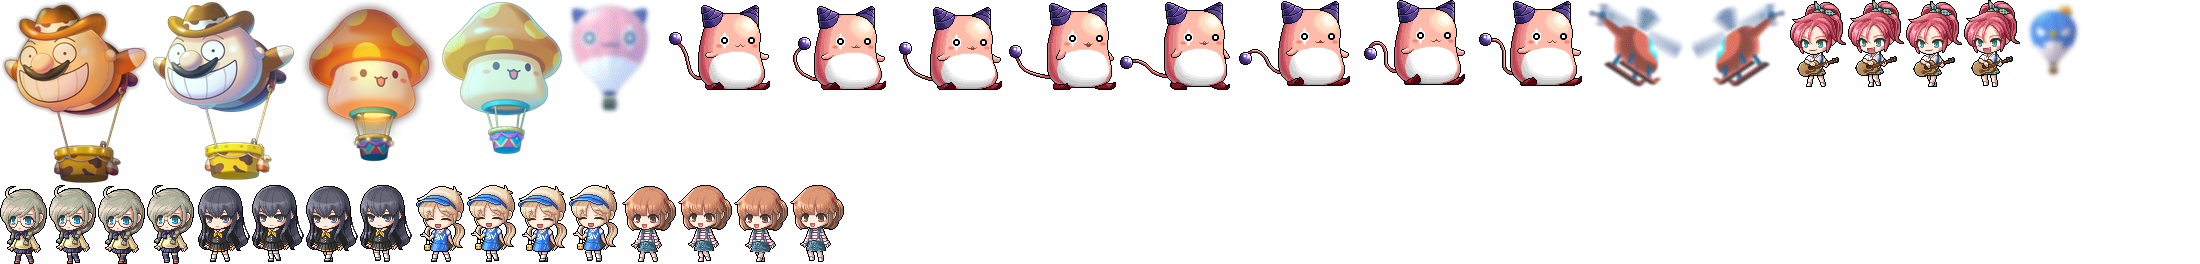
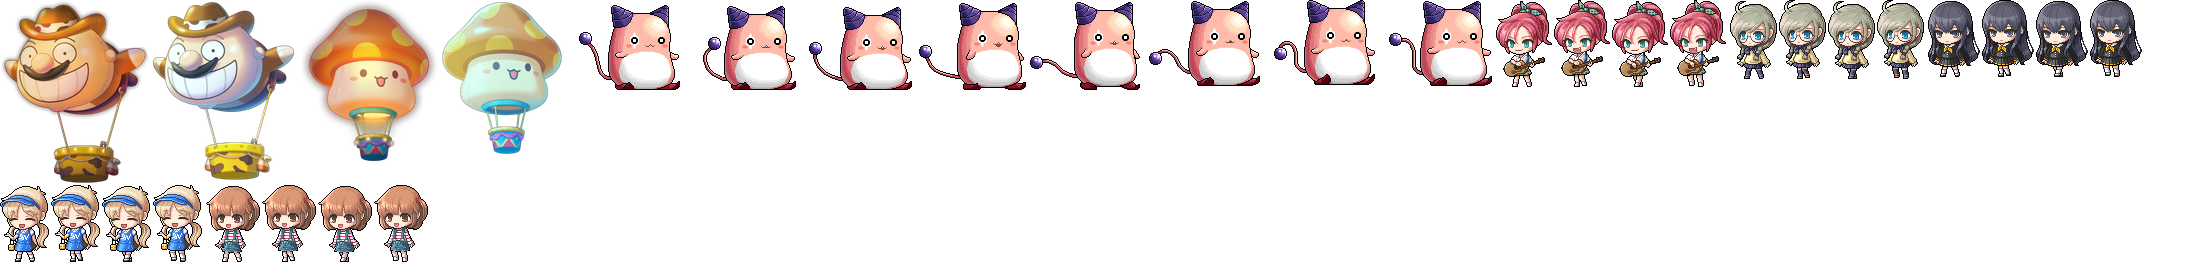
feat(scene): 장면은 확대 없이 페이드로, 뒤쪽 그림은 손실 압축, 폴백 배경 한 장
- 장면이 뜰 때 다가가는 효과를 없애고 0.7초 페이드만(앱 배경·피팅룸)
- 구름·핑크빈/페페 열기구·헬리콥터를 street-back(품질 90)으로. 걷는 이·이벤트 열기구는 무손실 그대로
- WebGL 을 못 쓸 때 assets/background/street-still.webp 한 장을 얹는다(조각 배치 코드 제거)

diff --git a/src/components/shop/scene/sceneGl.ts b/src/components/shop/scene/sceneGl.ts
@@ -200,7 +200,6 @@ interface Scene {
   px: number                     // 무대: 그림 1칸의 캔버스 픽셀 수(= 캐릭터 도트 1칸)
   nearest: boolean               // 무대: 지금 텍스처 필터
   shadow: number                 // 무대: 발밑 그림자 반폭(그림 픽셀)
-  arrive: number                 // 0 → 1: 처음 뜨면서 살짝 다가간다
   since: number                  // 화면에 붙은 때(그림을 얼마나 기다렸는지 잰다)
   loading: boolean               // 그림을 받기 시작했다
   els: (HTMLImageElement | undefined)[]   // 화면에 깔린 <img>(텍스처의 원본)
@@ -321,14 +320,16 @@ function mesh(kind: SceneKind) {
     for (const [cx, cy] of [[0, 0], [1, 0], [0, 1], [1, 0], [1, 1], [0, 1]]) out.push(x + cx * w, y + cy * h, cx ? u1 : u0, cy ? v1 : v0, k, ph, z, extra)
   }
   if (kind === 'sky') {
-    const [aw, ah] = STREET.atlas, [cw, ch] = STREET.cloud
+    const [fw, fh] = STREET.atlas, [bw, bh] = STREET.back
     // sprites: [종류, 아틀라스 x, y, w, h, 장면 x, y, 빠르기 배수 | 걷는 그림 장수, 박자 | 장 사이 간격]
     // 구름은 제자리에서 흘러가고, 나머지는 지나가는 것들이다. 같은 그림이 여러 번 놓여 있으면 하나만 쓴다(하늘이 붐비지 않게).
     const defs: typeof moverDefs = [], byArt = new Map<string, number>(), byBeat = new Map<number, number>()
     let helis = 0
     STREET.sprites.forEach(([k, ax, ay, w, h, x, y, extra, b], i) => {
-      if (k === 0) { quad(0, (i * 0.618034) % 1, x, y, w, h, ax / cw, ay / ch, (ax + w) / cw, (ay + h) / ch, 0); return }   // 구름은 제 그림(street-cloud)에 있다
+      // 구름 · 핑크빈/페페 열기구 · 헬리콥터는 뒤쪽 그림(street-back)에, 나머지는 street-air 에 있다
+      const [aw, ah] = k === 0 || k === 2 || (k === 1 && b < 0) ? [bw, bh] : [fw, fh]
       const uv = [ax / aw, ay / ah, (ax + w) / aw, (ay + h) / ah] as const
+      if (k === 0) { quad(0, (i * 0.618034) % 1, x, y, w, h, ...uv, 0); return }
       if (k === 11) { const idx = byBeat.get(b); if (idx != null) quad(11, idx, -w / 2, y, w, h, ...uv, 0, extra < 0 ? -1 : 1); return }
       const art = `${ax},${ay}`
       if (byArt.has(art) || defs.length >= MAX_MOVERS) return
@@ -428,7 +429,7 @@ function load(sc: Scene) {
 function create(kind: SceneKind): Scene {
   const canvas = document.createElement('canvas')
   canvas.style.cssText = 'position:absolute;left:0;top:0;width:100%;height:100%;display:block;opacity:0;pointer-events:none'
-  const sc: Scene = { kind, canvas, gl: null, quad: null, sky: null, ranges: [], bmps: SOURCES[kind].map(() => null), tex: [], pending: [], host: null, ratio: 1, foot: [0, 0], px: 1, nearest: false, shadow: 13, arrive: 0, since: 0, loading: false, els: [], frozen: false, mask: MASK, movers: null, mov: new Float32Array(MAX_MOVERS * 4), shown: false, dirty: true, at: 0, failed: false, cleanup: null }
+  const sc: Scene = { kind, canvas, gl: null, quad: null, sky: null, ranges: [], bmps: SOURCES[kind].map(() => null), tex: [], pending: [], host: null, ratio: 1, foot: [0, 0], px: 1, nearest: false, shadow: 13, since: 0, loading: false, els: [], frozen: false, mask: MASK, movers: null, mov: new Float32Array(MAX_MOVERS * 4), shown: false, dirty: true, at: 0, failed: false, cleanup: null }
   // 소프트웨어 렌더러(GPU 없음)면 쓰지 않는다. 그때는 바탕색만 남는다. (?skygl=soft 는 GPU 없는 확인 환경에서 강제로 켜는 용도)
   const soft = /[?&]skygl=soft/.test(window.location.search)
   const gl = canvas.getContext('webgl', { alpha: false, antialias: false, depth: false, stencil: false, powerPreference: 'low-power', failIfMajorPerformanceCaveat: !soft })
@@ -482,11 +483,9 @@ function draw(sc: Scene, now: number, st: SkyState, still: boolean) {
   // 네트워크가 느린 곳에서 몇 장을 기다리느라 화면이 내내 바탕색으로 남지 않게. 무대는 바탕(매장 색)이 있어 다 올 때까지 기다린다.
   if (sc.tex.length < SOURCES[sc.kind].length || sc.tex.some((t) => !t)) { if (room || now - sc.since < PATIENCE) return }
   const s = still ? 40 : now / 1000, W = c.width, H = c.height
-  sc.arrive = still ? 1 : Math.min(1, sc.arrive + 0.035)
-  const ease = 1 - Math.pow(1 - sc.arrive, 3), zoom = 1 + 0.03 * (1 - ease)
   if (room) {
-    // 다가가는 동안만 부드럽게, 멈추면 칸을 그대로(캐릭터 도트와 같은 결)
-    const nearest = sc.arrive >= 1 && Number.isInteger(sc.px)
+    // 칸을 그대로 그린다(캐릭터 도트와 같은 결)
+    const nearest = Number.isInteger(sc.px)
     if (nearest !== sc.nearest) {
       sc.nearest = nearest
       const f = nearest ? gl.NEAREST : gl.LINEAR
@@ -518,9 +517,9 @@ function draw(sc: Scene, now: number, st: SkyState, still: boolean) {
   gl.vertexAttribPointer(0, 2, gl.FLOAT, false, STRIDE * 4, 0); gl.vertexAttribPointer(1, 2, gl.FLOAT, false, STRIDE * 4, 8); gl.vertexAttribPointer(2, 4, gl.FLOAT, false, STRIDE * 4, 16)
   // 그림 픽셀 → 캔버스 픽셀: c = p * k + o
   let k: number, ox: number, oy: number
-  if (room) { k = sc.px * zoom; ox = sc.foot[0] - ROOM.foot[0] * k; oy = sc.foot[1] - ROOM.foot[1] * k }
-  else { k = sc.ratio * Math.max(1, W / sc.ratio / (STREET.w - 4 * SWAY)) * zoom; ox = W / 2 - (STREET.w / 2) * k; oy = H - STREET.h * k }
-  if (zoom === 1) { ox = Math.round(ox); oy = Math.round(oy) } // 칸이 화면 픽셀에 딱 맞게
+  if (room) { k = sc.px; ox = sc.foot[0] - ROOM.foot[0] * k; oy = sc.foot[1] - ROOM.foot[1] * k }
+  else { k = sc.ratio * Math.max(1, W / sc.ratio / (STREET.w - 4 * SWAY)); ox = W / 2 - (STREET.w / 2) * k; oy = H - STREET.h * k }
+  ox = Math.round(ox); oy = Math.round(oy) // 칸이 화면 픽셀에 딱 맞게
   gl.uniform4f(q.u.uView, k, k, ox, oy); gl.uniform2f(q.u.uRes, W, H); gl.uniform1f(q.u.uTime, s); gl.uniform1f(q.u.uTw, s % 600)
   gl.uniform1f(q.u.uSway, still ? 0 : Math.sin(s * 0.09) * SWAY)
   if (!room) {
@@ -546,10 +545,10 @@ function draw(sc: Scene, now: number, st: SkyState, still: boolean) {
     for (const kd of kinds) { const r = sc.ranges[kd]; if (r) gl.drawArrays(gl.TRIANGLES, r[0], r[1]) }
   }
   if (room) { part(0, [6]); part(1, [7]) }
-  else { part(5, [0]); part(0, [1, 2]); part(1, [4]); part(4, [10]); part(0, [3, 11]); part(2, [5]); part(3, [8]); part(0, [9]) }
+  else { part(5, [0, 1, 2]); part(1, [4]); part(4, [10]); part(0, [3, 11]); part(2, [5]); part(3, [8]); part(0, [9]) }
   sc.dirty = false
   sc.at = now
-  if (!sc.shown) { sc.shown = true; c.style.transition = 'opacity .45s ease'; c.style.opacity = '1' }
+  if (!sc.shown) { sc.shown = true; c.style.transition = 'opacity .7s ease'; c.style.opacity = '1' }   // 깔려 있던 그림 위로 번지듯 나타난다(크기는 그대로 — 다가가는 효과는 그림과 어긋나 보였다)
 }
 
 // 헤더에서 시간대를 바꾸면 곧바로 다시 그린다(동작 줄이기에서는 20초마다만 그리므로)
@@ -601,9 +600,9 @@ export function mountScene(kind: SceneKind, host: HTMLElement): () => void {
   sc.host = host
   load(sc)
   if (!sc.shown) sc.since = performance.now()
-  // 처음 뜰 때만 어두운 바탕에서 밝아지며 살짝 다가간다. 이미 떠 있던 장면은 다시 붙자마자 그린다(아래)
+  // 처음 뜰 때만 서서히 나타난다. 이미 떠 있던 장면은 다시 붙자마자 그린다(아래)
   const again = sc.shown
-  if (!again) { sc.canvas.style.transition = 'none'; sc.canvas.style.opacity = '0'; sc.arrive = 0 }
+  if (!again) { sc.canvas.style.transition = 'none'; sc.canvas.style.opacity = '0' }
   host.appendChild(sc.canvas)
   const relayout = () => layout(sc)
   const ro = new ResizeObserver(relayout)

diff --git a/src/components/shop/scene/SceneCanvas.tsx b/src/components/shop/scene/SceneCanvas.tsx
@@ -4,36 +4,24 @@
 //   ① 지금 시각의 바탕색(하늘빛) ② 움직이지 않는 그림(<img>, next/image) ③ WebGL 장면(scene/sceneGl)
 // ②까지는 WebGL 없이 뜨고 **늘 깔려 있다** — GPU 가 없거나 장면을 못 띄워도, 띄웠다가 잃어도 배경이 보인다(사용자 지시).
 // ③은 화면이 한가해지면 따로 받아 그 위에 띄운다(첫 화면 로딩과 조작을 막지 않는다). ③은 ②의 <img> 를 텍스처로 쓴다(한 번만 받는다).
-// WebGL 을 아예 못 쓰는 기기에서는 지나가는 것들(구름 · 열기구 · 헬리콥터 · 걷는 이)도 ②에 움직이지 않는 그림으로 놓는다.
+// WebGL 을 아예 못 쓰는 기기에서는 지나가는 것들(구름 · 열기구 · 헬리콥터 · 걷는 이)을 놓아 둔 폴백 그림 한 장(assets/background)을 ② 위에 얹는다.
 // ②의 그림은 화면이 뜬 뒤에 넣는다: 서버는 화면 폭을 몰라, 미리 넣으면 배경을 안 쓰는 모바일도 받는다.
 
 import clsx from 'clsx'
 import Image from 'next/image'
 import { useEffect, useRef, useState } from 'react'
 import { STREET } from './sceneData'
-import { SCENE_SRC, STILL, stillSprites, type StillSprite } from './sceneSrc'
+import { SCENE_SRC, STILL, STILL_OVER } from './sceneSrc'
 import { onSkyChange, sceneFallback, sceneVeil } from './skyTime'
 import styles from './scene.module.css'
 
 type Idle = Window & { requestIdleCallback?: (cb: () => void, o?: { timeout: number }) => number; cancelIdleCallback?: (id: number) => void }
 
-// 아틀라스(구름은 street-cloud, 나머지는 street-air)에서 한 조각을 잘라 장면과 같은 자리에 놓는다.
-function Sprite({ s }: { s: StillSprite }) {
-  const [aw, ah] = s.cloud ? STREET.cloud : STREET.atlas, k = s.scale
-  return (
-    <div className={styles.still} style={{
-      left: `calc(50% + ${s.x - STREET.w / 2}px)`, bottom: `${STREET.h - (s.y + s.h * k)}px`, width: s.w * k, height: s.h * k,
-      backgroundImage: `url("${SCENE_SRC.sky[s.cloud ? 5 : 0]}")`, backgroundPosition: `${-s.ax * k}px ${-s.ay * k}px`, backgroundSize: `${aw * k}px ${ah * k}px`,
-      transform: s.flip ? 'scaleX(-1)' : undefined,
-    }} />
-  )
-}
-
 export default function SceneCanvas({ kind, className }: { kind: 'sky' | 'room'; className?: string }) {
   const ref = useRef<HTMLDivElement>(null)
   const veil = useRef<HTMLDivElement>(null)
   const [ready, setReady] = useState(false)                       // 화면이 떴다 → 그림을 넣는다
-  const [sprites, setSprites] = useState<StillSprite[] | null>(null)   // WebGL 을 못 쓴다 → 지나가는 것들을 그림으로 놓는다
+  const [noGl, setNoGl] = useState(false)                         // WebGL 을 못 쓴다 → 폴백 그림을 얹는다
   useEffect(() => {
     const host = ref.current
     if (!host) return
@@ -44,9 +32,9 @@ export default function SceneCanvas({ kind, className }: { kind: 'sky' | 'room';
     const off = onSkyChange(paint)
     let dead = false
     let unmount: (() => void) | undefined
-    const noGl = () => { if (!dead && kind === 'sky') setSprites(stillSprites(host.clientWidth || window.innerWidth)) }
+    const fail = () => { if (!dead && kind === 'sky') setNoGl(true) }
     const start = () => {
-      import('./sceneGl').then((m) => { if (dead) return; unmount = m.mountScene(kind, host); if (m.sceneFailed(kind)) noGl() }).catch(noGl)
+      import('./sceneGl').then((m) => { if (dead) return; unmount = m.mountScene(kind, host); if (m.sceneFailed(kind)) fail() }).catch(fail)
     }
     const w = window as Idle
     const id = w.requestIdleCallback ? w.requestIdleCallback(start, { timeout: 2000 }) : window.setTimeout(start, 300)
@@ -58,20 +46,21 @@ export default function SceneCanvas({ kind, className }: { kind: 'sky' | 'room';
     }
   }, [kind])
   useEffect(() => { if (veil.current) veil.current.style.opacity = String(sceneVeil(kind)) }, [ready, kind])
-  const at = (layer: number) => sprites?.filter((s) => s.layer === layer).map((s) => <Sprite key={s.key} s={s} />)
   // 원래 크기 그대로(1칸 = 1px) 깐다 — 줄이거나 다시 압축하면 장면과 어긋나고 선이 뭉개진다
   const img = (i: number) => {
     const l = STILL[kind].find((x) => x.i === i)!
     return <Image key={i} data-scene={i} src={SCENE_SRC[kind][i]} alt="" width={l.w} height={l.h} unoptimized loading="eager" fetchPriority="low" draggable={false} className={styles.still} style={l.style} />
   }
   // 장면만 쓰는 그림(아틀라스 · 빛 지도 · 구름)도 여기서 함께 받기 시작한다 — 장면 코드가 도착할 때까지 기다렸다 받으면 그만큼 늦게 뜬다.
-  // 화면에는 안 보이고, 장면이 이 <img> 를 텍스처로 쓴다(WebGL 을 못 쓰면 아래의 조각 그림이 같은 파일을 쓴다) → 한 번만 받는다.
+  // 화면에는 안 보이고, 장면이 이 <img> 를 텍스처로 쓴다 → 한 번만 받는다.
   const early = (i: number, [w, h]: number[]) => <Image key={'e' + i} data-scene={i} src={SCENE_SRC.sky[i]} alt="" width={w} height={h} unoptimized loading="eager" fetchPriority="low" style={{ display: 'none' }} />
   return (
     <div ref={ref} aria-hidden className={clsx(styles.host, className)}>
       {ready && (kind === 'sky' ? (
-        // 쌓는 순서는 장면과 같다: 구름 · 열기구 · 헬리콥터 → 먼 빌딩 → 탑 → 이벤트 열기구 → 거리 → 걷는 이
-        <>{at(0)}{img(1)}{img(4)}{at(1)}{img(2)}{at(2)}{early(5, STREET.cloud)}{early(0, STREET.atlas)}{early(3, [STREET.w / 2, STREET.main.h / 2])}</>
+        // 쌓는 순서는 장면과 같다: 먼 빌딩 → 탑 → 거리. 폴백 그림은 가려질 부분이 지워져 있어 맨 위에 얹는다
+        <>{img(1)}{img(4)}{img(2)}
+          {noGl && <Image src={STILL_OVER} alt="" width={STREET.w} height={STREET.h} unoptimized loading="eager" draggable={false} className={styles.still} style={{ left: `calc(50% - ${STREET.w / 2}px)`, bottom: '0px' }} />}
+          {early(5, STREET.back)}{early(0, STREET.atlas)}{early(3, [STREET.w / 2, STREET.main.h / 2])}</>
       ) : STILL.room.map((l) => img(l.i)))}
       {ready && <div ref={veil} className={styles.veil} />}
     </div>

diff --git a/src/components/shop/scene/sceneSrc.ts b/src/components/shop/scene/sceneSrc.ts
@@ -2,8 +2,9 @@
 // WebGL 장면(sceneGl)과 그 아래에 깔리는 <img>(SceneCanvas)가 같은 주소를 쓴다 → 한 번만 받는다.
 import roomFar from '@/assets/scene/room-far.webp'
 import roomMain from '@/assets/scene/room-main.webp'
+import streetStill from '@/assets/background/street-still.webp'
 import streetAir from '@/assets/scene/street-air.webp'
-import streetCloud from '@/assets/scene/street-cloud.webp'
+import streetBack from '@/assets/scene/street-back.webp'
 import streetFar from '@/assets/scene/street-far.webp'
 import streetGlow from '@/assets/scene/street-glow.webp'
 import streetMain from '@/assets/scene/street-main.webp'
@@ -12,9 +13,13 @@ import { ROOM, STREET } from './sceneData'
 
 // 자리 번호가 곧 텍스처 번호다(sceneGl 의 part()).
 export const SCENE_SRC = {
-  sky: [streetAir, streetFar, streetMain, streetGlow, streetTower, streetCloud].map((m) => m.src),
+  sky: [streetAir, streetFar, streetMain, streetGlow, streetTower, streetBack].map((m) => m.src),
   room: [roomFar, roomMain].map((m) => m.src),
 }
+
+// 폴백 배경(assets/background): WebGL 을 못 쓰는 기기에서 건물 그림 위에 얹는 한 장 — 구름 · 열기구 · 헬리콥터 · 걷는 이를 자리를 정해 놓아 둔 것.
+// 건물에 가리는 부분은 미리 지워져 있어 맨 위에 그대로 얹으면 층이 맞는다(parser/scripts/scene-build.cjs). 장면 전체 크기(STREET.w × h)다.
+export const STILL_OVER = streetStill.src
 
 // WebGL 없이도 보이는 층: 움직이지 않는 그림을 장면과 같은 자리에 <img> 로 깐다(아래에 적은 순서대로 쌓는다).
 // 거리는 화면 아래 가운데에, 무대는 캐릭터가 서는 자리(발)를 칸 가운데 조금 아래에 맞춘다.
@@ -38,35 +43,4 @@ export function spread(n: number, lo: number, hi: number): number[] {
   const slot = Array.from({ length: n }, (_, i) => i)
   for (let i = n - 1; i > 0; i--) { const j = Math.floor(Math.random() * (i + 1)); [slot[i], slot[j]] = [slot[j], slot[i]] }
   return slot.map((k) => lo + ((k + 0.15 + 0.7 * Math.random()) / n) * (hi - lo))
-}
-
-// WebGL 을 못 쓰는 기기에서: 지나가는 것들(구름 · 열기구 · 헬리콥터 · 걷는 이)을 움직이지 않는 그림으로 놓는다.
-// 구름은 제자리에, 나머지는 화면에 보이는 폭 안에 고루 흩어 놓고 저마다 가는 쪽을 뽑아 그쪽을 보게 한다.
-// 자리와 보는 쪽의 규칙은 장면(sceneGl 의 mesh)과 같다. layer = 쌓는 자리: 0 먼 빌딩 뒤 · 1 탑과 거리 사이 · 2 거리 앞.
-export interface StillSprite { key: string; layer: 0 | 1 | 2; cloud?: boolean; ax: number; ay: number; w: number; h: number; x: number; y: number; scale: number; flip: boolean }
-const HELI = { up: 150, size: 0.75 }   // sceneGl 의 HELI_UP · HELI_SIZE 와 같은 값
-export function stillSprites(viewW: number): StillSprite[] {
-  const out: StillSprite[] = [], seen = new Set<string>()
-  const lo = STREET.w / 2 - viewW / 2, hi = STREET.w / 2 + viewW / 2
-  type Row = { layer: 0 | 1 | 2; group: number; ax: number; ay: number; w: number; h: number; y: number; scale: number; face: number; jit: number }
-  const rows: Row[] = []
-  let helis = 0
-  STREET.sprites.forEach(([k, ax, ay, w, h, x, y, extra, b], i) => {
-    if (k === 0) { out.push({ key: 'c' + i, layer: 0, cloud: true, ax, ay, w, h, x, y, scale: 1, flip: false }); return }
-    if (k === 11) return                       // 열기구의 밤 그림은 장면에서만 쓴다
-    const art = `${ax},${ay}`
-    if (seen.has(art)) return                  // 같은 그림은 하나만
-    seen.add(art)
-    if (k === 1) rows.push({ layer: b >= 0 ? 1 : 0, group: 0, ax, ay, w, h, y, scale: 1, face: extra < 0 ? -1 : b >= 0 ? 1 : 0, jit: 26 })
-    else if (k === 2) rows.push({ layer: 0, group: 0, ax, ay, w, h, y: y - HELI.up, scale: HELI.size, face: helis++ ? -1 : 1, jit: 24 })
-    else rows.push({ layer: 2, group: 2, ax, ay, w, h, y, scale: 1, face: k === 9 ? 1 : -1, jit: 0 })   // 걷는 이: 첫 장(서 있는 모습)
-  })
-  for (const g of [0, 2]) {   // 하늘의 것들(열기구 · 헬리콥터)끼리, 걷는 이들끼리 겹치지 않게 흩는다
-    const list = rows.filter((r) => r.group === g), xs = spread(list.length, lo, hi)
-    list.forEach((r, i) => {
-      const half = (r.w * r.scale) / 2, cx = Math.min(hi - half, Math.max(lo + half, xs[i])), dir = Math.random() < 0.5 ? -1 : 1
-      out.push({ key: `m${g}-${i}`, layer: r.layer, ax: r.ax, ay: r.ay, w: r.w, h: r.h, x: Math.round(cx - half), y: Math.round(r.y + (Math.random() * 2 - 1) * r.jit), scale: r.scale, flip: r.face !== 0 && dir !== r.face })
-    })
-  }
-  return out
 }

diff --git a/src/components/shop/scene/sceneData.ts b/src/components/shop/scene/sceneData.ts
@@ -1,6 +1,6 @@
 // parser/scripts/scene-build.cjs 가 만든다. 손으로 고치지 않는다.
 // 좌표는 그림 픽셀(왼쪽 위 원점). sprites: [종류, 아틀라스 x, y, w, h, 장면 x, y, 빠르기 배수 | 걷는 그림 장수, 흔들리는 박자(-1 = 알아서) | 장 사이 간격]
-// 구름(종류 0)의 아틀라스 좌표는 구름 그림(street-cloud, 크기 cloud)의 것이고 나머지는 street-air(크기 atlas)의 것이다.
+// 구름(0) · 핑크빈/페페 열기구(1 가운데 박자가 -1) · 헬리콥터(2)의 아틀라스 좌표는 street-back(크기 back)의 것이고 나머지는 street-air(크기 atlas)의 것이다.
 // 종류 0 구름 · 1 열기구 · 2 헬리콥터 · 9 오른쪽으로 걷는 이 · 10 왼쪽으로 걷는 이 · 11 열기구의 밤 그림
-export const STREET: { w: number; h: number; far: { y: number; h: number }; main: { y: number; h: number }; tower: { x: number; y: number; w: number; h: number }; atlas: number[]; cloud: number[]; sprites: number[][] } = {"w":4096,"h":1000,"far":{"y":118,"h":722},"main":{"y":98,"h":902},"tower":{"x":1910,"y":98,"w":394,"h":742},"atlas":[2200,264],"cloud":[2200,651],"sprites":[[0,0,0,2155,459,-431,154,1,-1],[0,0,0,2155,459,1724,154,1,-1],[0,0,0,2155,459,3879,154,1,-1],[0,474,461,387,166,1119,86,1,-1],[0,474,461,387,166,2919,86,1,-1],[0,0,461,472,190,169,11,1,-1],[0,0,461,472,190,1669,11,1,-1],[0,0,461,472,190,3169,11,1,-1],[1,2024,0,59,80,3033,158,1,-1],[1,2024,0,59,80,2555,254,1,-1],[1,2024,0,59,80,810,206,1,-1],[1,566,0,88,116,2452,156,1,-1],[1,566,0,88,116,240,122,1,-1],[1,566,0,88,116,4022,134,1,-1],[1,440,0,124,156,1100,92,0.75,0.13],[1,151,0,147,182,2560,84,-1.25,0.57],[2,1586,0,100,89,1864,335,1,-1],[2,1688,0,100,89,2285,286,1,-1],[9,656,0,114,90,0,748,8,116],[10,198,185,52,77,0,762,4,54],[10,416,185,49,77,0,762,4,51],[10,622,185,54,77,0,762,4,56],[10,1790,0,56,87,0,752,4,58],[10,0,185,47,79,0,760,4,49],[11,300,0,138,164,1093,88,0.75,0.13],[11,0,0,149,183,2559,83,-1.25,0.57]]}
+export const STREET: { w: number; h: number; far: { y: number; h: number }; main: { y: number; h: number }; tower: { x: number; y: number; w: number; h: number }; atlas: number[]; back: number[]; sprites: number[][] } = {"w":4096,"h":1000,"far":{"y":118,"h":722},"main":{"y":98,"h":902},"tower":{"x":1910,"y":98,"w":394,"h":742},"atlas":[2200,262],"back":[2200,651],"sprites":[[0,0,0,2155,459,-431,154,1,-1],[0,0,0,2155,459,1724,154,1,-1],[0,0,0,2155,459,3879,154,1,-1],[0,474,461,387,166,1119,86,1,-1],[0,474,461,387,166,2919,86,1,-1],[0,0,461,472,190,169,11,1,-1],[0,0,461,472,190,1669,11,1,-1],[0,0,461,472,190,3169,11,1,-1],[1,1157,461,59,80,3033,158,1,-1],[1,1157,461,59,80,2555,254,1,-1],[1,1157,461,59,80,810,206,1,-1],[1,863,461,88,116,2452,156,1,-1],[1,863,461,88,116,240,122,1,-1],[1,863,461,88,116,4022,134,1,-1],[1,440,0,124,156,1100,92,0.75,0.13],[1,151,0,147,182,2560,84,-1.25,0.57],[2,953,461,100,89,1864,335,1,-1],[2,1055,461,100,89,2285,286,1,-1],[9,566,0,114,90,0,748,8,116],[10,1928,0,52,77,0,762,4,54],[10,0,185,49,77,0,762,4,51],[10,206,185,54,77,0,762,4,56],[10,1496,0,56,87,0,752,4,58],[10,1730,0,47,79,0,760,4,49],[11,300,0,138,164,1093,88,0.75,0.13],[11,0,0,149,183,2559,83,-1.25,0.57]]}
 export const ROOM = {"w":956,"h":538,"foot":[478,414]}
